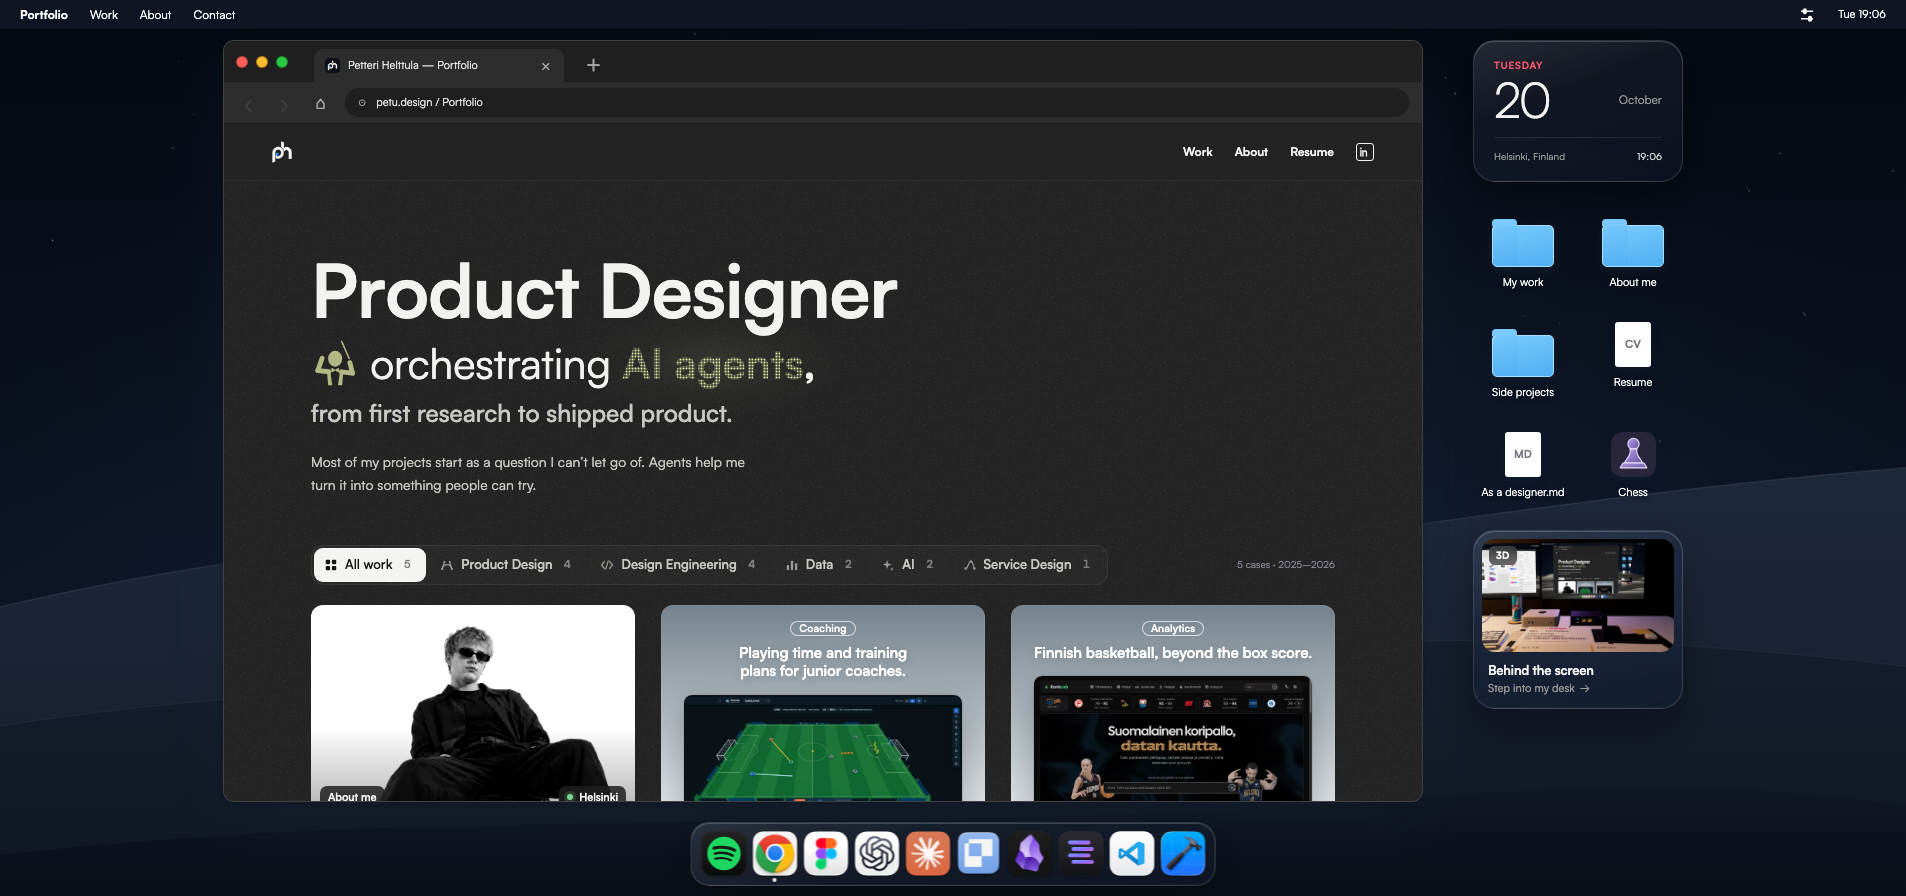
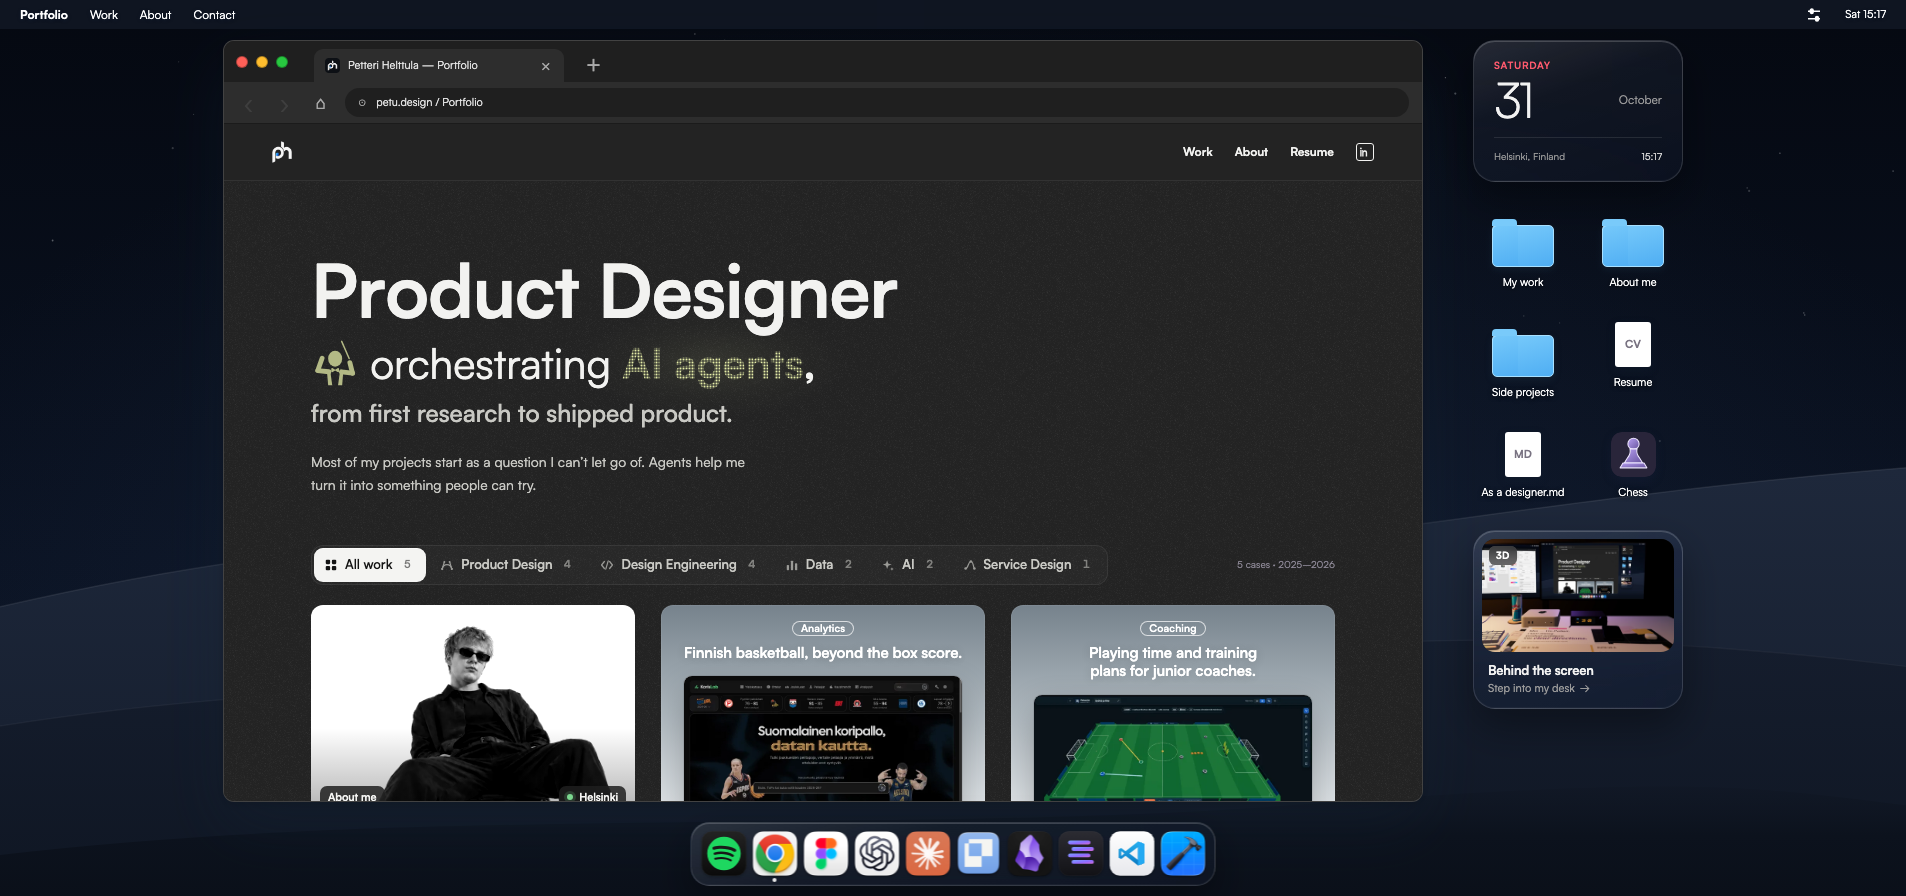
Lead the portfolio with KorisLab
Move KorisLab ahead of Peluutin on the homepage, in the My work folder and
in the next-case order, and refresh the room screen, desk widget and link
preview images.

diff --git a/index.html b/index.html
@@ -19,7 +19,7 @@
 </nav>
 <div class="browser-page" id="browser-page" tabindex="0"></div>
 </article>
-<aside class="desktop-side" aria-label="Desktop widgets"><section class="date-widget"><span id="widget-weekday"></span><strong id="widget-day"></strong><span id="widget-month"></span><div>Helsinki, Finland<time id="widget-clock"></time></div></section><nav class="desktop-shortcuts" id="desktop-shortcuts" aria-label="Desktop files"></nav><button class="room-button workspace-enter room-widget" type="button" aria-controls="workspace-view" aria-expanded="false" aria-label="See what's behind the screen: open my desk in 3D"><span class="room-widget-preview" aria-hidden="true"><img src="assets/room-widget-preview.jpg?v=8" alt="" width="560" height="330" decoding="async"><span class="room-widget-chip">3D</span></span><span class="room-widget-copy" aria-hidden="true"><strong>Behind the screen</strong><small>Step into my desk <span class="room-widget-arrow">→</span></small></span></button></aside>
+<aside class="desktop-side" aria-label="Desktop widgets"><section class="date-widget"><span id="widget-weekday"></span><strong id="widget-day"></strong><span id="widget-month"></span><div>Helsinki, Finland<time id="widget-clock"></time></div></section><nav class="desktop-shortcuts" id="desktop-shortcuts" aria-label="Desktop files"></nav><button class="room-button workspace-enter room-widget" type="button" aria-controls="workspace-view" aria-expanded="false" aria-label="See what's behind the screen: open my desk in 3D"><span class="room-widget-preview" aria-hidden="true"><img src="assets/room-widget-preview.jpg?v=9" alt="" width="560" height="330" decoding="async"><span class="room-widget-chip">3D</span></span><span class="room-widget-copy" aria-hidden="true"><strong>Behind the screen</strong><small>Step into my desk <span class="room-widget-arrow">→</span></small></span></button></aside>
 </div>
 <section class="sound-mixer" hidden id="sound-mixer" aria-labelledby="mixer-title">
               <header><h2 id="mixer-title">Sound mixer</h2><button type="button" id="sound-enable" aria-pressed="false">Enable sound</button></header>
@@ -128,8 +128,8 @@
               </div>
               <div class="desktop-projects gallery-grid">
                 <a href="#about" class="gallery-card gallery-card-me" data-tags="all"><div class="gallery-thumb"><img src="assets/cards/petteri.webp" alt="Petteri Helttula seated on a chair" decoding="async" fetchpriority="high"><span class="gallery-chip">About me</span><span class="gallery-chip gallery-chip-end"><span class="gallery-live" aria-hidden="true"></span>Helsinki</span></div><div class="gallery-meta"><span class="gallery-avatar gallery-avatar-photo"><img src="assets/cards/petteri.webp" alt=""></span><h3>Petteri Helttula <svg class="gallery-verified" viewBox="0 0 24 24" aria-label="Verified"><path fill="currentColor" d="M12 1.8 14.6 4l3.4-.2.8 3.3 2.9 1.8-1.3 3.1 1.3 3.1-2.9 1.8-.8 3.3-3.4-.2L12 22.2 9.4 20l-3.4.2-.8-3.3-2.9-1.8L3.6 12 2.3 8.9l2.9-1.8.8-3.3 3.4.2Z"/><path d="m8.3 12.2 2.4 2.4 5-5" fill="none" stroke="#fff" stroke-width="2" stroke-linecap="round" stroke-linejoin="round"/></svg></h3><span class="gallery-year">Hi!</span></div><p>Product designer &amp; AI design engineer. ICT engineering background, curious about everything.</p></a>
-                <a href="/peluutin/" class="gallery-card" data-tags="product code" style="--thumb:#e9efe6"><div class="gallery-thumb gallery-shot"><span class="shot-pill">Coaching</span><strong class="shot-title">Playing time and training plans for junior coaches.</strong><img class="shot-img" src="assets/cards/peluutin.webp" alt="Peluutin football training planner" decoding="async"></div><div class="gallery-meta"><span class="gallery-avatar gallery-avatar-logo"><img src="assets/logos/peluutin.svg" alt="" decoding="async"></span><h3>Peluutin</h3><span class="gallery-year">2026</span></div><p>Playing time, substitutions and animated training exercises for junior coaches.</p></a>
                 <a href="/korislab/" class="gallery-card" data-tags="product code data ai" style="--thumb:#1d2a36"><div class="gallery-thumb gallery-shot"><span class="shot-pill">Analytics</span><strong class="shot-title">Finnish basketball, beyond the box score.</strong><img class="shot-img" src="assets/cards/korislab.webp" alt="KorisLab’s landing page with basketball players, search and an interactive dashboard preview" decoding="async"></div><div class="gallery-meta"><span class="gallery-avatar gallery-avatar-logo"><img src="assets/logos/korislab.svg" alt="" decoding="async"></span><h3>KorisLab</h3><span class="gallery-year">2026</span></div><p>Basketball analytics for Finland’s Korisliiga: teams, players and matchups.</p></a>
+                <a href="/peluutin/" class="gallery-card" data-tags="product code" style="--thumb:#e9efe6"><div class="gallery-thumb gallery-shot"><span class="shot-pill">Coaching</span><strong class="shot-title">Playing time and training plans for junior coaches.</strong><img class="shot-img" src="assets/cards/peluutin.webp" alt="Peluutin football training planner" decoding="async"></div><div class="gallery-meta"><span class="gallery-avatar gallery-avatar-logo"><img src="assets/logos/peluutin.svg" alt="" decoding="async"></span><h3>Peluutin</h3><span class="gallery-year">2026</span></div><p>Playing time, substitutions and animated training exercises for junior coaches.</p></a>
                 <a href="/helsinki-sports-map/" class="gallery-card" data-tags="product code data" style="--thumb:#eef2f4"><div class="gallery-thumb gallery-shot"><span class="shot-pill">Maps</span><strong class="shot-title">Find a place to play in Helsinki.</strong><img class="shot-img" src="assets/cards/helsinki-sports-map.webp" loading="lazy" alt="Helsinki Sports Map interface showing sport filters, a facility list and map clusters" decoding="async"></div><div class="gallery-meta"><span class="gallery-avatar gallery-avatar-logo"><img src="assets/logos/helsinki-sports-map.png" alt="" decoding="async"></span><h3>Helsinki Sports Map</h3><span class="gallery-year">2026</span></div><p>Every sports venue in Helsinki, with filters and routes including HSL transit.</p></a>
                 <a href="/brio/" class="gallery-card" data-tags="product code ai" style="--thumb:#efe4ec"><div class="gallery-thumb gallery-shot"><span class="shot-pill">Wellbeing</span><strong class="shot-title">Move to earn more scrolling time.</strong><img class="shot-img" src="assets/cards/brio.webp" loading="lazy" alt="Brio pose tracking prototype" decoding="async"></div><div class="gallery-meta"><span class="gallery-avatar" style="--avatar:#a8457f">B</span><h3>Brio</h3><span class="gallery-year">2026</span></div><p>Limit selected apps, then complete a chosen activity to keep scrolling.</p></a>
                 <a href="/s-havikki/" class="gallery-card" data-tags="service" style="--thumb:#e8ebe6"><div class="gallery-thumb gallery-shot"><span class="shot-pill">Retail</span><strong class="shot-title">Near-expiry checks, shelf by shelf.</strong><img class="shot-img" src="assets/shavikki-kaappikuva-768.webp" loading="lazy" alt="S-hävikki store cabinet" decoding="async"></div><div class="gallery-meta"><span class="gallery-avatar" style="--avatar:#2f8a4b">S</span><h3>S-hävikki</h3><span class="gallery-year">2025</span></div><p>A retail service concept for reducing food waste and near-expiry checks.</p></a>
@@ -750,4 +750,4 @@
   <img data-preview-image alt="">
   <p data-preview-caption hidden></p>
 </dialog>
-<script src="case-video.js?v=2"></script><script src="case-comparison.js?v=1"></script><script src="desktop.js?v=60"></script><script src="workspace-view.js?v=114"></script></body></html>
+<script src="case-video.js?v=2"></script><script src="case-comparison.js?v=1"></script><script src="desktop.js?v=61"></script><script src="workspace-view.js?v=115"></script></body></html>

diff --git a/desktop.js b/desktop.js
@@ -1,7 +1,7 @@
 // Edit these lists to add shortcuts or Dock applications.
 if(!document.head.querySelector('base')){const portfolioBase=document.createElement('base');portfolioBase.href=new URL('/',location.href).href;document.head.prepend(portfolioBase);}
 const desktopShortcuts = [
- {name:'My work',href:'#work',icon:'folder',items:['Peluutin','KorisLab','Helsinki Sports Map','Brio']}, {name:'About me',href:'#about',icon:'folder',items:['About me','As a designer']},
+ {name:'My work',href:'#work',icon:'folder',items:['KorisLab','Peluutin','Helsinki Sports Map','Brio']}, {name:'About me',href:'#about',icon:'folder',items:['About me','As a designer']},
  {name:'Side projects',href:'#sideprojects',icon:'folder',items:['Spire Coach Mod','OpenSlot']},
  {name:'Resume',href:'#resume',icon:'CV'},
  {name:'As a designer.md',href:'#how-i-work',icon:'MD'},

diff --git a/workspace-view.js b/workspace-view.js
@@ -1244,7 +1244,7 @@ const createDesktopScreenTexture = (THREE) => {
     texture.needsUpdate = true;
   };
   desktopImage.onload = draw;
-  desktopImage.src = 'assets/room-desktop-screen.png?v=19';
+  desktopImage.src = 'assets/room-desktop-screen.png?v=20';
   window.setInterval(draw, 30_000);
   const dockTargets = [
     { x: 701.5 / 1906, y: 831 / 896, width: 44 / 1906, height: 44 / 896 },
